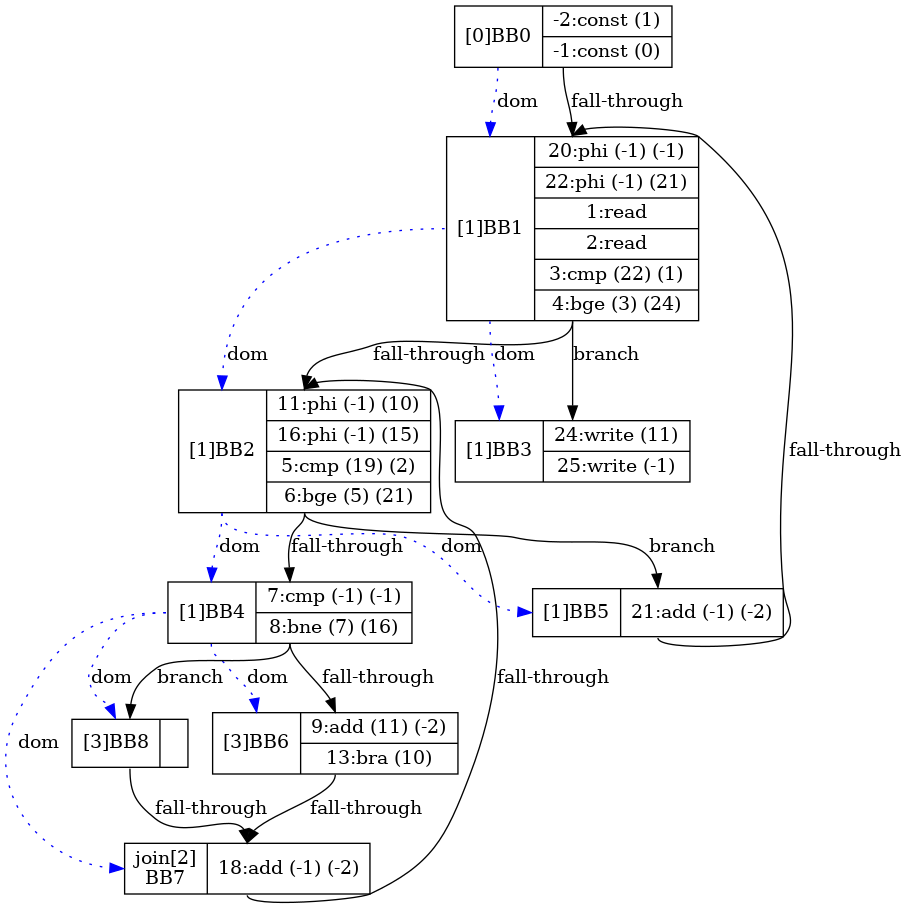
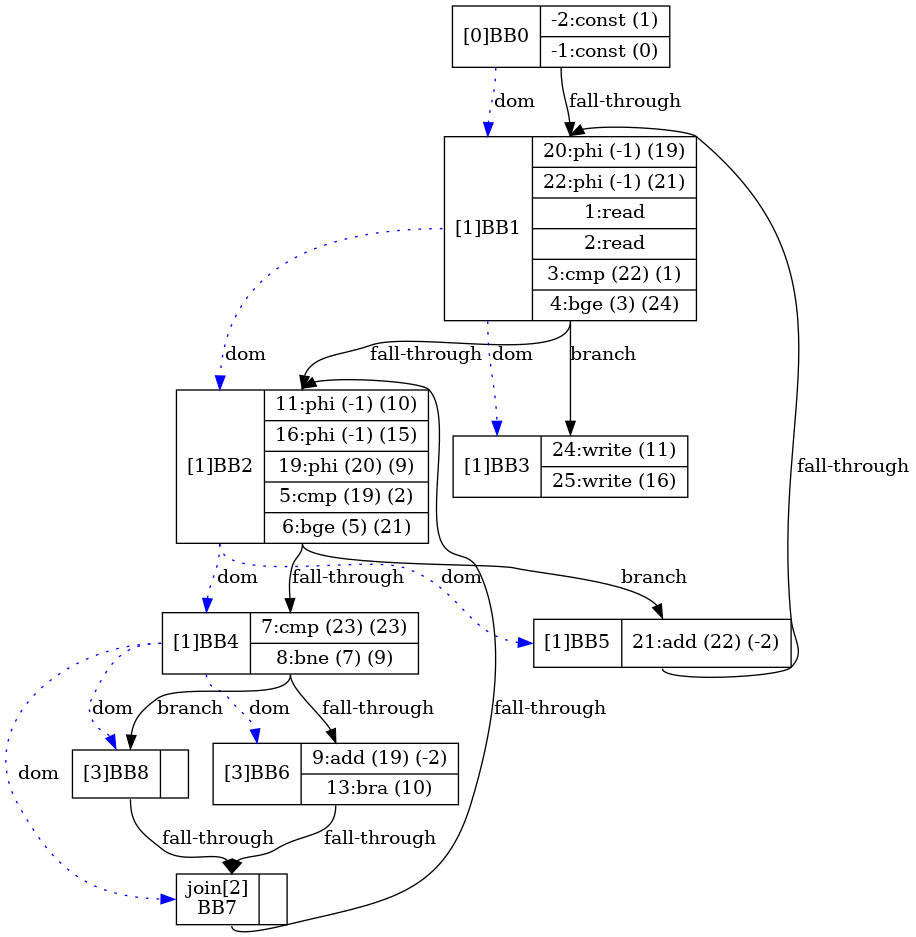
todo - [Parser - updateIfBlk()] for after if-else stmt

diff --git a/src/Parser.cpp b/src/Parser.cpp
@@ -1283,6 +1283,9 @@ SSA* Parser::p2_ifStatement() {
         std::cout << "jmp_instr (after set): " << jmp_instr->toString() << std::endl;
     #endif
 
+    // note: else-blk doesn't have this problem since it's created after if-blk (inherits modifications from propagateDown())
+    this->updateIfBlk(); // update if-blk's vv's if else-blk modified since propagateDown() stops after the ifHead
+
     // FI
     this->CheckFor(Result(2, 21)); // check `fi`
 

diff --git a/src/Parser.hpp b/src/Parser.hpp
@@ -1339,7 +1339,7 @@ public:
                 #endif
 
 
-                this->propagateDown(this->currBB, p, prevVal, phi_table_int, true, {ifHead});
+                this->propagateDown(this->currBB, p, prevVal, phi_table_int, true, {ifHead->child, ifHead->child2});
                 
                 #ifdef DEBUG
                     std::cout << "phi_instr: " << phi_instr->toString() << std::endl;
